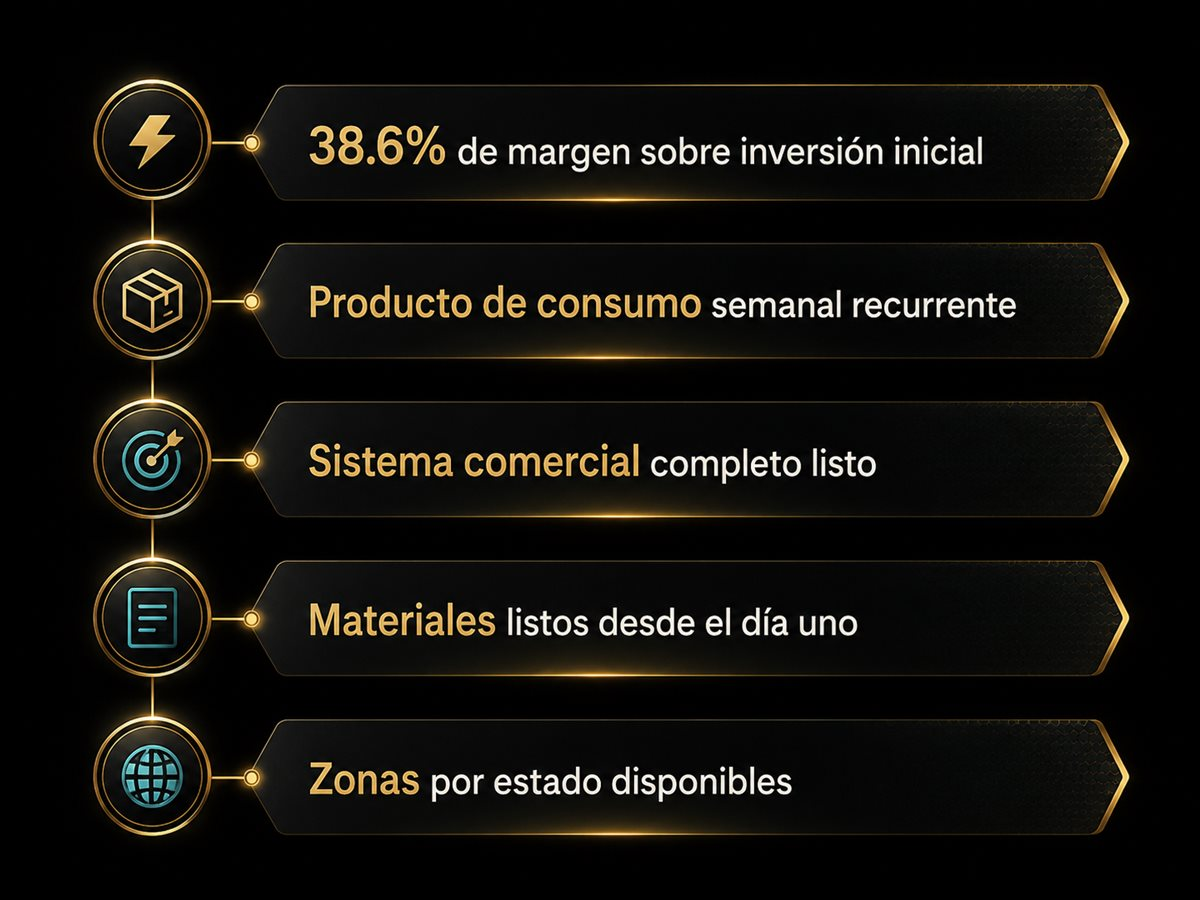
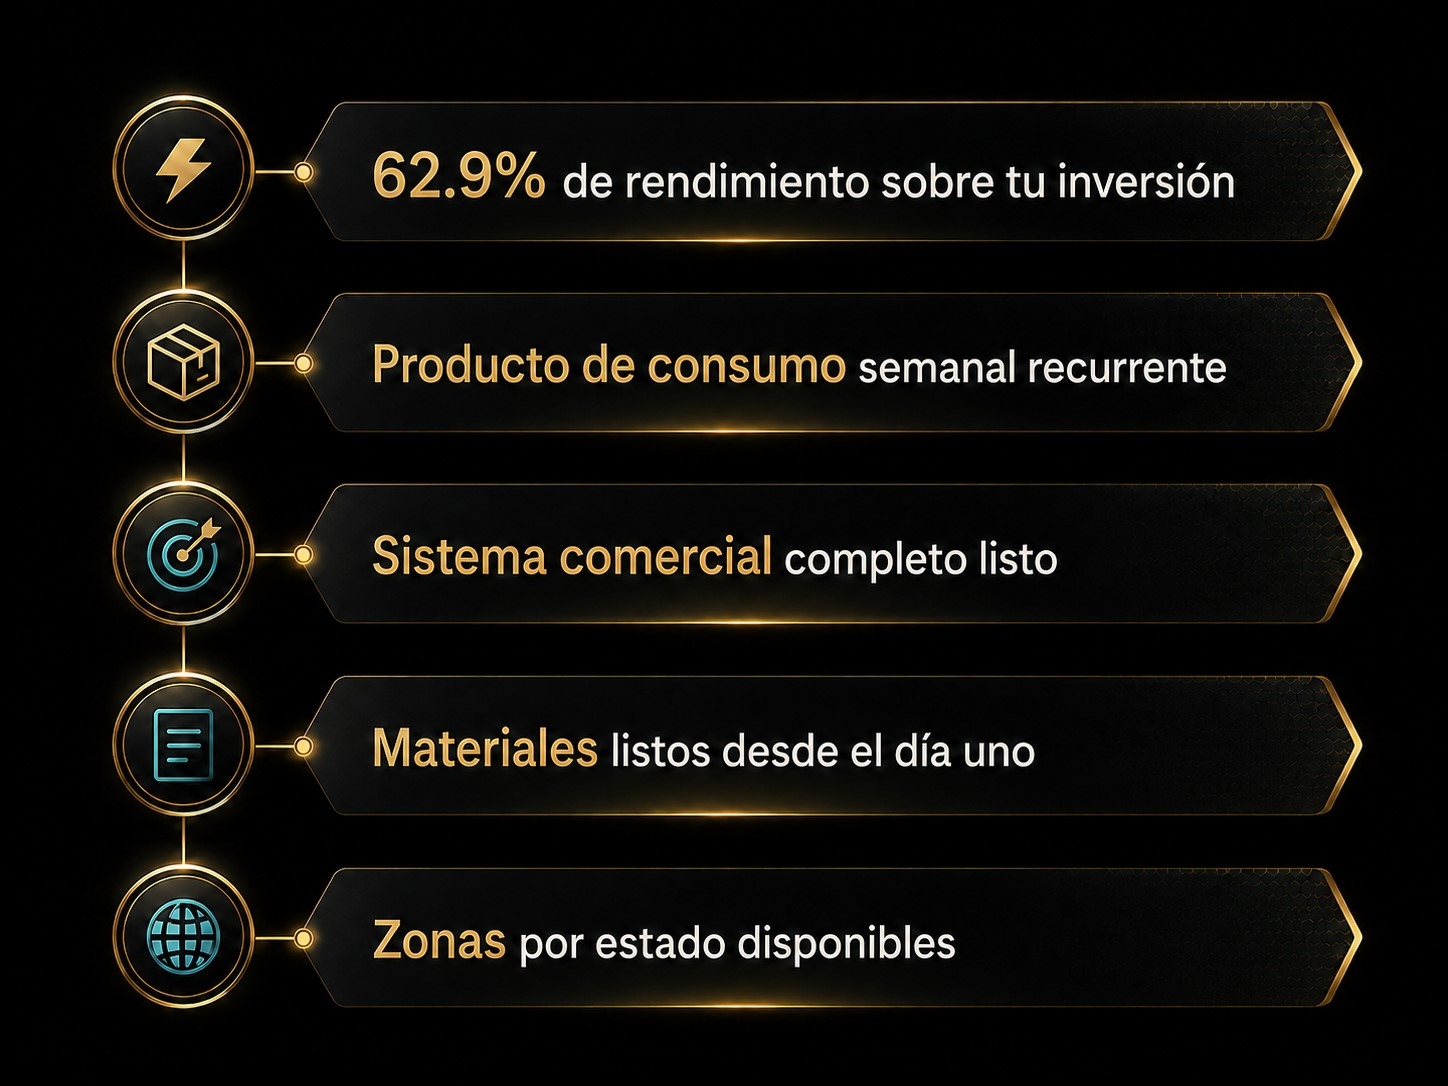
Add promo popup (disabled) and update ROI figure to 62.9%
Adds a reusable promo modal on index.html, currently disabled via a
feature flag until copy/timing is finalized. Corrects the
oportunidad.html investment return metric from a sale-price-based
margin (38.6%) to a proper return-on-investment calculation
(profit/cost = 62.9%), updating all copy, the calculator formula,
and the hero infographic accordingly.

diff --git a/oportunidad.html b/oportunidad.html
@@ -21,13 +21,13 @@ src="https://www.facebook.com/tr?id=1676702536743834&ev=PageView&noscript=1"
 <!-- End Meta Pixel Code -->
 <meta name="viewport" content="width=device-width, initial-scale=1.0">
 <title>GB FORCE — Oportunidad de distribución | Grupo Bidao</title>
-<meta name="description" content="Distribuye GB FORCE. Margen del 38.6%, sistema comercial listo, materiales desde el día uno. El mercado ya existe. Solo falta tu primer paso.">
+<meta name="description" content="Distribuye GB FORCE. Rendimiento del 62.9%, sistema comercial listo, materiales desde el día uno. El mercado ya existe. Solo falta tu primer paso.">
 <link rel="canonical" href="https://gbforce.mx/oportunidad.html">
 <meta name="robots" content="index, follow">
 <meta property="og:type" content="website">
 <meta property="og:url" content="https://gbforce.mx/oportunidad.html">
 <meta property="og:title" content="GB FORCE — Oportunidad de distribución | Grupo Bidao">
-<meta property="og:description" content="Distribuye GB FORCE. Margen del 38.6%, sistema comercial listo, materiales desde el día uno. El mercado ya existe. Solo falta tu primer paso.">
+<meta property="og:description" content="Distribuye GB FORCE. Rendimiento del 62.9%, sistema comercial listo, materiales desde el día uno. El mercado ya existe. Solo falta tu primer paso.">
 <meta property="og:image" content="https://gbforce.mx/android-chrome-512x512.png">
 <meta name="twitter:card" content="summary_large_image">
 <link rel="icon" type="image/x-icon" href="/favicon.ico">
@@ -77,19 +77,19 @@ src="https://www.facebook.com/tr?id=1676702536743834&ev=PageView&noscript=1"
   <div class="hero-inner">
     <div class="hero-content">
       <div class="hero-badges">
-        <span class="badge">Margen del 38.6%</span>
+        <span class="badge">Rendimiento del 62.9%</span>
         <span class="badge">Consumo semanal recurrente</span>
         <span class="badge">Sistema listo</span>
       </div>
       <h1 class="hero-title">El mercado ya existe. El producto ya funciona. <em>Solo falta tu primer paso.</em></h1>
-      <p class="hero-sub">GB FORCE es un suplemento alimenticio probado, con margen real, materiales listos y una red en expansión. No construyas desde cero cuando ya hay un sistema funcionando.</p>
+      <p class="hero-sub">GB FORCE es un suplemento alimenticio probado, con rendimiento real, materiales listos y una red en expansión. No construyas desde cero cuando ya hay un sistema funcionando.</p>
       <p class="hero-micro">La oportunidad de hoy, mañana puede ser de otro.</p>
       <div class="hero-ctas">
         <a href="#formulario" class="btn-gold btn-lg">Quiero ser distribuidor</a>
         <a href="#modelo" class="btn-outline btn-lg">Ver el modelo</a>
       </div>
       <div class="hero-pills">
-        <img src="assets/oportunidad-hero-benefits.jpg" alt="38.6% de margen sobre inversión inicial. Producto de consumo semanal recurrente. Sistema comercial completo listo. Materiales listos desde el día uno. Zonas por estado disponibles." class="hero-benefits-img-opp" loading="lazy">
+        <img src="assets/oportunidad-hero-benefits.jpg?v=2" alt="62.9% de rendimiento sobre tu inversión inicial. Producto de consumo semanal recurrente. Sistema comercial completo listo. Materiales listos desde el día uno. Zonas por estado disponibles." class="hero-benefits-img-opp" loading="lazy">
       </div>
     </div>
     <div class="hero-video-wrap">
@@ -229,7 +229,7 @@ src="https://www.facebook.com/tr?id=1676702536743834&ev=PageView&noscript=1"
 <section class="section-light-dark" id="modelo">
   <div class="container">
     <div class="section-label">El negocio</div>
-    <h2 class="section-title">Un producto que se explica solo. Un margen que se defiende solo. <em>Un sistema que ya funciona.</em></h2>
+    <h2 class="section-title">Un producto que se explica solo. Un rendimiento que se defiende solo. <em>Un sistema que ya funciona.</em></h2>
     <div class="rebel-quote">
       "No vendes esperanza. Vendes una fórmula con ingredientes reales, presentación práctica y precio de venta que el mercado ya acepta."
     </div>
@@ -241,8 +241,8 @@ src="https://www.facebook.com/tr?id=1676702536743834&ev=PageView&noscript=1"
       </div>
       <div class="opp-card">
         <div class="opp-num">02</div>
-        <h3>Margen que se defiende</h3>
-        <p>38.6% de margen estimado sobre inversión inicial. Un ticket de venta que justifica el esfuerzo desde la primera conversación, no después de acumular volumen.</p>
+        <h3>Rendimiento que se defiende</h3>
+        <p>62.9% de rendimiento estimado sobre tu inversión inicial. Un ticket de venta que justifica el esfuerzo desde la primera conversación, no después de acumular volumen.</p>
       </div>
       <div class="opp-card">
         <div class="opp-num">03</div>
@@ -292,10 +292,10 @@ src="https://www.facebook.com/tr?id=1676702536743834&ev=PageView&noscript=1"
         <p>Diferencia estimada entre inversión y venta del lote inicial.</p>
       </div>
       <div class="pricing-card pricing-card-gold">
-        <div class="pricing-label">Margen sobre inversión</div>
-        <div class="pricing-amount">38.6%</div>
+        <div class="pricing-label">Rendimiento sobre tu inversión</div>
+        <div class="pricing-amount">62.9%</div>
         <div class="pricing-currency">estimado</div>
-        <p>Margen potencial sobre el capital invertido inicialmente.</p>
+        <p>Rendimiento potencial sobre el capital invertido inicialmente.</p>
       </div>
     </div>
     <p class="pricing-disclaimer">Los resultados varían según desempeño comercial, mercado, volumen de venta y estrategia del distribuidor. Escenario de referencia, no garantía de resultados.</p>
@@ -352,8 +352,8 @@ src="https://www.facebook.com/tr?id=1676702536743834&ev=PageView&noscript=1"
           <div class="calc-res-unit">MXN</div>
         </div>
         <div class="calc-result-card highlight">
-          <div class="calc-res-label">Margen estimado</div>
-          <div class="calc-res-value" id="res-margen">38.6%</div>
+          <div class="calc-res-label">Rendimiento sobre tu inversión</div>
+          <div class="calc-res-value" id="res-margen">62.9%</div>
           <div class="calc-res-unit">utilidad</div>
         </div>
         <div class="calc-result-card" id="sub-result" style="display:none">
@@ -740,8 +740,8 @@ src="https://www.facebook.com/tr?id=1676702536743834&ev=PageView&noscript=1"
         <div class="faq-a"><p>El paquete inicial de distribución tiene un costo de $7,980 MXN e incluye inventario, materiales y acceso al sistema. Existen esquemas adicionales. Un asesor te explica las opciones según tu perfil y mercado.</p></div>
       </div>
       <div class="faq-item">
-        <button class="faq-q">¿Cuál es el margen real? <span>+</span></button>
-        <div class="faq-a"><p>El margen estimado sobre inversión inicial es del 38.6%, equivalente a una ganancia potencial de $5,020 MXN sobre el lote inicial. Los resultados varían según el desempeño comercial de cada distribuidor.</p></div>
+        <button class="faq-q">¿Cuál es el rendimiento real? <span>+</span></button>
+        <div class="faq-a"><p>El rendimiento estimado sobre tu inversión inicial es del 62.9%, equivalente a una ganancia potencial de $5,020 MXN sobre el lote inicial. Los resultados varían según el desempeño comercial de cada distribuidor.</p></div>
       </div>
       <div class="faq-item">
         <button class="faq-q">¿Puedo distribuir en mi estado? <span>+</span></button>
@@ -840,6 +840,6 @@ src="https://www.facebook.com/tr?id=1676702536743834&ev=PageView&noscript=1"
 <script src="mexico-geo.js"></script>
 <script src="municipios-mx.js"></script>
 <script src="analytics.js?v=1"></script>
-<script src="main.js?v=3"></script>
+<script src="main.js?v=5"></script>
 </body>
 </html>

diff --git a/main.js b/main.js
@@ -150,6 +150,33 @@ document.addEventListener('DOMContentLoaded', () => {
   if (modalClose) modalClose.addEventListener('click', closeModal);
   document.addEventListener('keydown', (e) => { if (e.key === 'Escape') closeModal(); });
 
+  // ── PROMO POPUP (aparece una vez por sesión al cargar la página) ──
+  const PROMO_POPUP_ENABLED = false; // cambiar a true para reactivar el popup
+  const promoModal = document.getElementById('promoModal');
+  const promoModalBackdrop = document.getElementById('promoModalBackdrop');
+  const promoModalClose = document.getElementById('promoModalClose');
+  const promoModalCta = document.getElementById('promoModalCta');
+
+  function openPromoModal() {
+    if (!promoModal) return;
+    promoModal.classList.add('active');
+    document.body.style.overflow = 'hidden';
+  }
+  function closePromoModal() {
+    if (!promoModal) return;
+    promoModal.classList.remove('active');
+    document.body.style.overflow = '';
+    sessionStorage.setItem('gbforce_promo_seen', '1');
+  }
+  if (promoModalBackdrop) promoModalBackdrop.addEventListener('click', closePromoModal);
+  if (promoModalClose) promoModalClose.addEventListener('click', closePromoModal);
+  if (promoModalCta) promoModalCta.addEventListener('click', closePromoModal);
+  document.addEventListener('keydown', (e) => { if (e.key === 'Escape') closePromoModal(); });
+
+  if (PROMO_POPUP_ENABLED && !sessionStorage.getItem('gbforce_promo_seen')) {
+    setTimeout(openPromoModal, 1500);
+  }
+
   // Product video click-to-expand
   const productVideoEl = document.getElementById('productVideo');
   if (productVideoEl) {
@@ -204,12 +231,12 @@ document.addEventListener('DOMContentLoaded', () => {
     const ventasMes      = semana * 4;
     const ingresoPropio  = ventasMes * PRECIO_FIJO;
     const gananciaPropia = ventasMes * (PRECIO_FIJO - COSTO_FIJO);
-    const margen         = ((PRECIO_FIJO - COSTO_FIJO) / PRECIO_FIJO * 100).toFixed(1);
+    const rendimiento     = ((PRECIO_FIJO - COSTO_FIJO) / COSTO_FIJO * 100).toFixed(1);
 
     results.ventas.textContent   = ventasMes;
     results.ingreso.textContent  = fmt(ingresoPropio);
     results.ganancia.textContent = fmt(gananciaPropia);
-    results.margen.textContent   = margen + '%';
+    results.margen.textContent   = rendimiento + '%';
 
     if (sub > 0) {
       subGroup.style.display  = 'block';

diff --git a/index.html b/index.html
@@ -40,10 +40,23 @@ src="https://www.facebook.com/tr?id=1676702536743834&ev=PageView&noscript=1"
 <link rel="preconnect" href="https://fonts.googleapis.com">
 <link rel="preconnect" href="https://fonts.gstatic.com" crossorigin>
 <link href="https://fonts.googleapis.com/css2?family=Bebas+Neue&family=Cormorant+Garamond:ital,wght@0,400;0,600;1,400&family=DM+Sans:wght@300;400;500;600&display=swap" rel="stylesheet">
-<link rel="stylesheet" href="styles.css?v=3">
+<link rel="stylesheet" href="styles.css?v=5">
 <script src="https://cdnjs.cloudflare.com/ajax/libs/d3/7.8.5/d3.min.js"></script>
 </head>
 <body>
+
+<!-- PROMO POPUP -->
+<div class="modal promo-modal" id="promoModal">
+  <div class="modal-backdrop" id="promoModalBackdrop"></div>
+  <div class="modal-content promo-modal-content">
+    <button class="modal-close" id="promoModalClose" aria-label="Cerrar">✕</button>
+    <span class="promo-modal-badge">Oferta especial</span>
+    <h3 class="promo-modal-title">TU SEGUNDA SEMANA PUEDE IR POR NUESTRA CUENTA</h3>
+    <p class="promo-modal-sub">Compra tu tratamiento GB FORCE de 7 días y participa para obtener otro tratamiento sin costo.*</p>
+    <a href="#distribuidores" class="btn-gold btn-lg promo-modal-cta" id="promoModalCta">CONOCER LA PROMOCIÓN</a>
+    <p class="promo-modal-legal">*Aplican términos y condiciones. Envío no incluido.</p>
+  </div>
+</div>
 
 <!-- FLOATING WHATSAPP -->
 <a href="https://wa.me/523331721515?text=Hola,%20quiero%20información%20sobre%20GB%20FORCE" class="whatsapp-float" target="_blank" aria-label="Contactar por WhatsApp">
@@ -731,6 +744,6 @@ src="https://www.facebook.com/tr?id=1676702536743834&ev=PageView&noscript=1"
 
 <script src="mexico-geo.js"></script>
 <script src="analytics.js?v=1"></script>
-<script src="main.js?v=3"></script>
+<script src="main.js?v=5"></script>
 </body>
 </html>

diff --git a/styles.css b/styles.css
@@ -486,6 +486,50 @@ img { max-width: 100%; display: block; }
   width: 100%; height: 100%;
 }
 
+/* ── PROMO POPUP ── */
+.promo-modal-content {
+  background: var(--black-card);
+  border: 1px solid var(--gold);
+  border-radius: var(--radius);
+  padding: 2.75rem 2rem 2rem;
+  text-align: center;
+  max-width: 440px;
+}
+.promo-modal-badge {
+  display: inline-block;
+  font-size: 0.7rem;
+  font-weight: 600;
+  letter-spacing: 0.15em;
+  text-transform: uppercase;
+  color: var(--gold);
+  border: 1px solid rgba(201,168,76,0.4);
+  border-radius: 999px;
+  padding: 0.3rem 0.9rem;
+  margin-bottom: 1rem;
+}
+.promo-modal-title {
+  font-family: var(--font-display);
+  font-size: 1.5rem;
+  letter-spacing: 0.02em;
+  line-height: 1.3;
+  color: var(--white);
+  margin-bottom: 0.75rem;
+}
+.promo-modal-sub {
+  font-size: 0.9rem;
+  color: var(--white-dim);
+  line-height: 1.6;
+  margin-bottom: 1.5rem;
+}
+.promo-modal-cta {
+  display: inline-block;
+  margin-bottom: 1.25rem;
+}
+.promo-modal-legal {
+  font-size: 0.7rem;
+  color: rgba(255,255,255,0.5);
+}
+
 /* ── SECTIONS ── */
 .section-dark, .section-gold-line, .section-light-dark,
 .section-process, .section-form, .section-faq,
